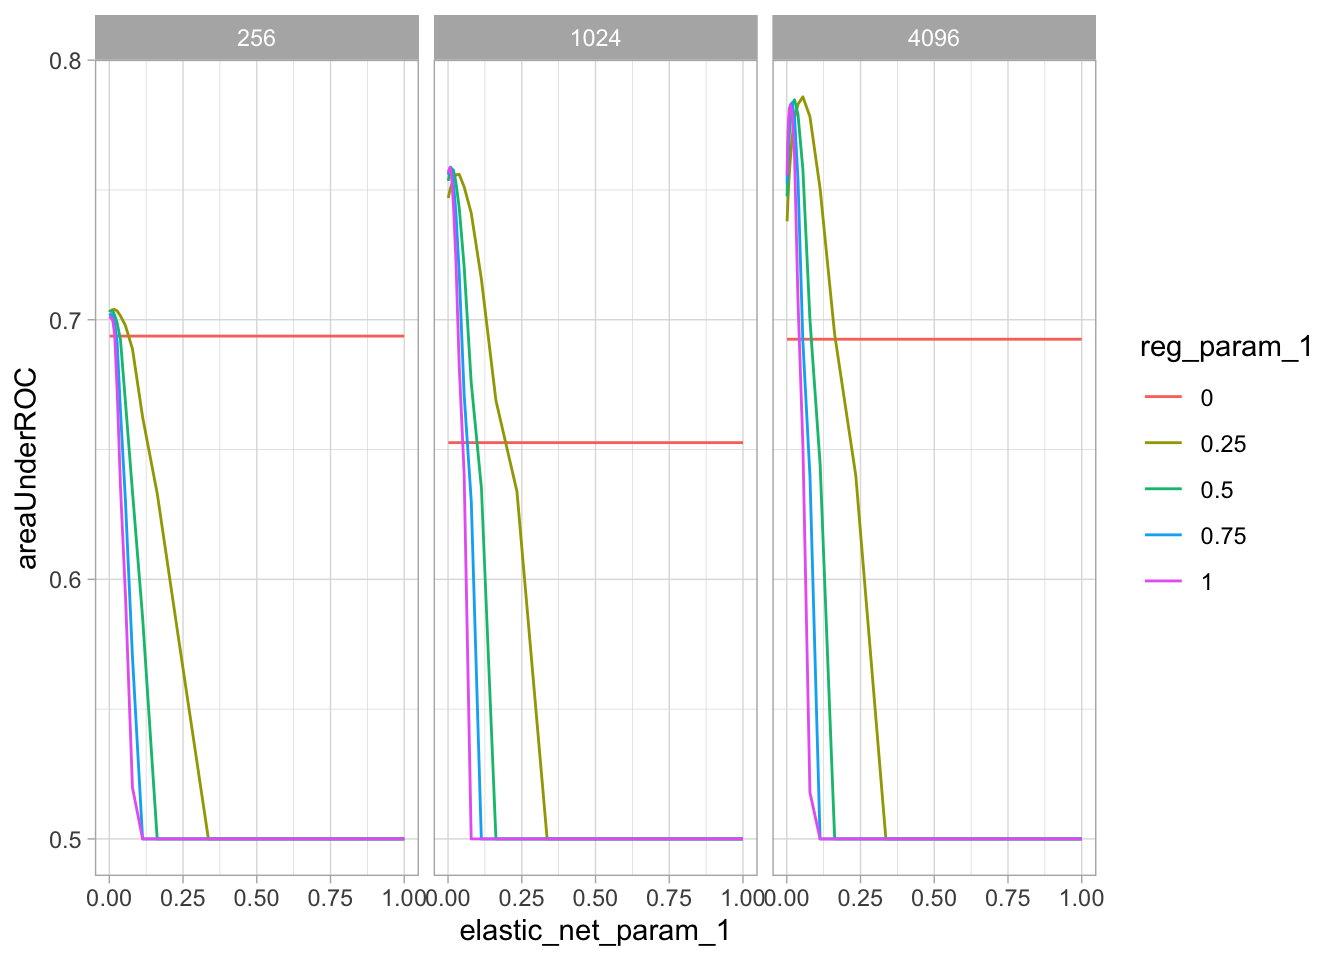
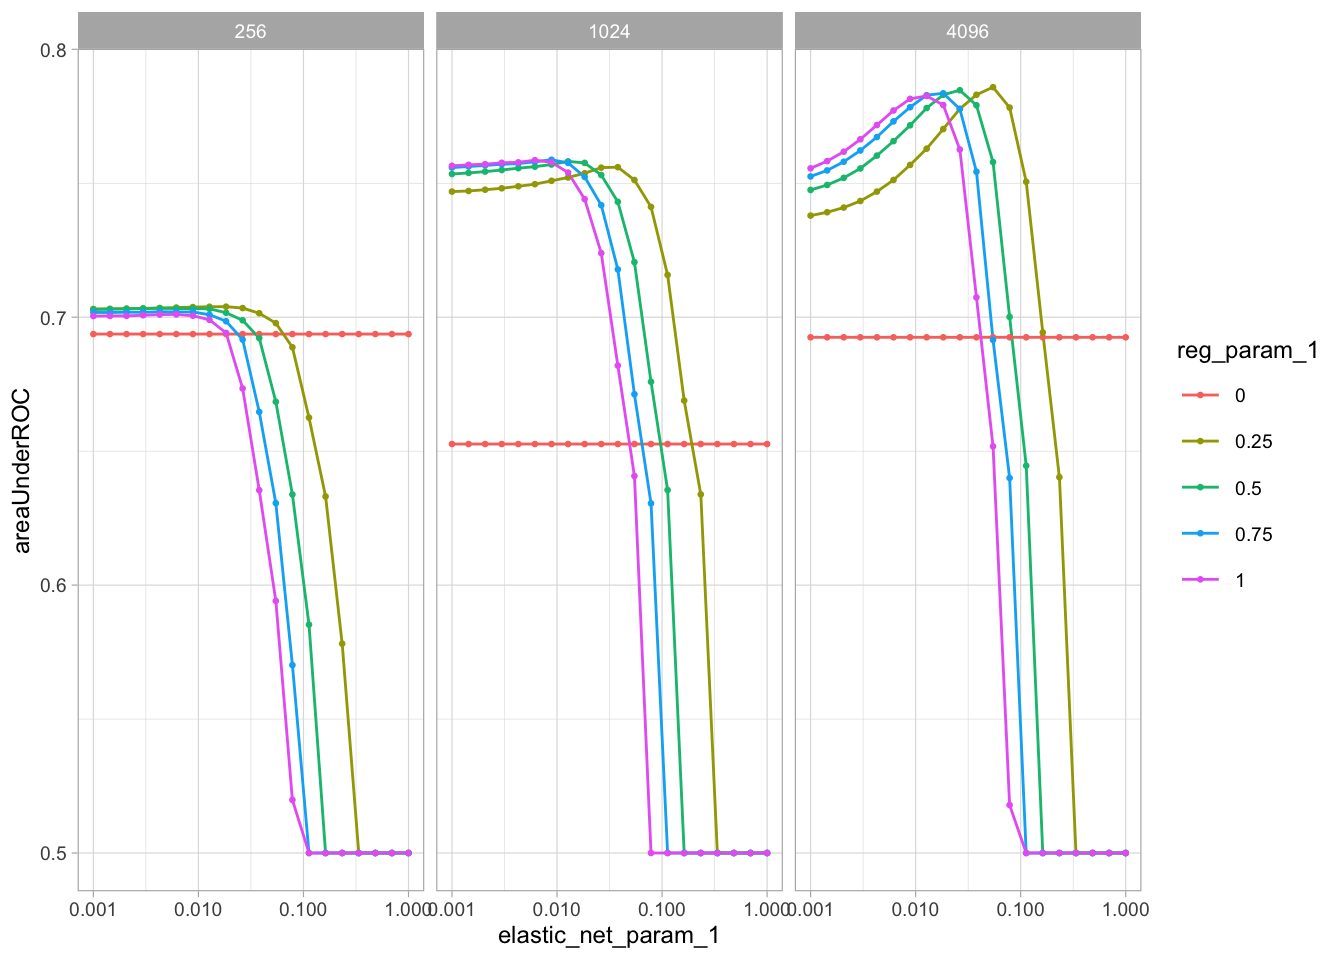
Adds model seed, and log10 to plot to match original article's plot

diff --git a/docs/guides/model_tuning_text.html b/docs/guides/model_tuning_text.html
@@ -434,30 +434,30 @@ ga('send', {
 <span id="cb2-22"><a href="#cb2-22" aria-hidden="true" tabindex="-1"></a></span>
 <span id="cb2-23"><a href="#cb2-23" aria-hidden="true" tabindex="-1"></a>sff_pipeline</span>
 <span id="cb2-24"><a href="#cb2-24" aria-hidden="true" tabindex="-1"></a><span class="co">#&gt; Pipeline (Estimator) with 6 stages</span></span>
-<span id="cb2-25"><a href="#cb2-25" aria-hidden="true" tabindex="-1"></a><span class="co">#&gt; &lt;pipeline__46386eca_53d3_4845_a539_bbf953802a16&gt; </span></span>
+<span id="cb2-25"><a href="#cb2-25" aria-hidden="true" tabindex="-1"></a><span class="co">#&gt; &lt;pipeline__4ecbedbf_4b66_4aaf_8473_71a2439c9683&gt; </span></span>
 <span id="cb2-26"><a href="#cb2-26" aria-hidden="true" tabindex="-1"></a><span class="co">#&gt;   Stages </span></span>
 <span id="cb2-27"><a href="#cb2-27" aria-hidden="true" tabindex="-1"></a><span class="co">#&gt;   |--1 Tokenizer (Transformer)</span></span>
-<span id="cb2-28"><a href="#cb2-28" aria-hidden="true" tabindex="-1"></a><span class="co">#&gt;   |    &lt;tokenizer__eb42920b_551a_43d2_a8aa_9c17f5695b45&gt; </span></span>
+<span id="cb2-28"><a href="#cb2-28" aria-hidden="true" tabindex="-1"></a><span class="co">#&gt;   |    &lt;tokenizer__44913373_2687_4fd0_a7f1_342d340255d6&gt; </span></span>
 <span id="cb2-29"><a href="#cb2-29" aria-hidden="true" tabindex="-1"></a><span class="co">#&gt;   |     (Parameters -- Column Names)</span></span>
 <span id="cb2-30"><a href="#cb2-30" aria-hidden="true" tabindex="-1"></a><span class="co">#&gt;   |      input_col: review</span></span>
 <span id="cb2-31"><a href="#cb2-31" aria-hidden="true" tabindex="-1"></a><span class="co">#&gt;   |      output_col: word_list</span></span>
 <span id="cb2-32"><a href="#cb2-32" aria-hidden="true" tabindex="-1"></a><span class="co">#&gt;   |--2 StopWordsRemover (Transformer)</span></span>
-<span id="cb2-33"><a href="#cb2-33" aria-hidden="true" tabindex="-1"></a><span class="co">#&gt;   |    &lt;stop_words_remover__d1438901_17da_48dc_8581_0153daad2228&gt; </span></span>
+<span id="cb2-33"><a href="#cb2-33" aria-hidden="true" tabindex="-1"></a><span class="co">#&gt;   |    &lt;stop_words_remover__1840232c_40f7_4822_8294_2c5f599d8046&gt; </span></span>
 <span id="cb2-34"><a href="#cb2-34" aria-hidden="true" tabindex="-1"></a><span class="co">#&gt;   |     (Parameters -- Column Names)</span></span>
 <span id="cb2-35"><a href="#cb2-35" aria-hidden="true" tabindex="-1"></a><span class="co">#&gt;   |      input_col: word_list</span></span>
 <span id="cb2-36"><a href="#cb2-36" aria-hidden="true" tabindex="-1"></a><span class="co">#&gt;   |      output_col: wo_stop_words</span></span>
 <span id="cb2-37"><a href="#cb2-37" aria-hidden="true" tabindex="-1"></a><span class="co">#&gt;   |--3 HashingTF (Transformer)</span></span>
-<span id="cb2-38"><a href="#cb2-38" aria-hidden="true" tabindex="-1"></a><span class="co">#&gt;   |    &lt;hashing_tf__9f32a222_e0f9_42bf_bfd8_dadc23dc8d62&gt; </span></span>
+<span id="cb2-38"><a href="#cb2-38" aria-hidden="true" tabindex="-1"></a><span class="co">#&gt;   |    &lt;hashing_tf__c5b0cde0_0a9a_4277_aaf6_f975419eaed5&gt; </span></span>
 <span id="cb2-39"><a href="#cb2-39" aria-hidden="true" tabindex="-1"></a><span class="co">#&gt;   |     (Parameters -- Column Names)</span></span>
 <span id="cb2-40"><a href="#cb2-40" aria-hidden="true" tabindex="-1"></a><span class="co">#&gt;   |      input_col: wo_stop_words</span></span>
 <span id="cb2-41"><a href="#cb2-41" aria-hidden="true" tabindex="-1"></a><span class="co">#&gt;   |      output_col: hashed_features</span></span>
 <span id="cb2-42"><a href="#cb2-42" aria-hidden="true" tabindex="-1"></a><span class="co">#&gt;   |--4 Normalizer (Transformer)</span></span>
-<span id="cb2-43"><a href="#cb2-43" aria-hidden="true" tabindex="-1"></a><span class="co">#&gt;   |    &lt;normalizer__7e3b28f8_248f_467d_914e_9ffd25575f2a&gt; </span></span>
+<span id="cb2-43"><a href="#cb2-43" aria-hidden="true" tabindex="-1"></a><span class="co">#&gt;   |    &lt;normalizer__546b0428_e407_4f16_8063_98f618aef38b&gt; </span></span>
 <span id="cb2-44"><a href="#cb2-44" aria-hidden="true" tabindex="-1"></a><span class="co">#&gt;   |     (Parameters -- Column Names)</span></span>
 <span id="cb2-45"><a href="#cb2-45" aria-hidden="true" tabindex="-1"></a><span class="co">#&gt;   |      input_col: hashed_features</span></span>
 <span id="cb2-46"><a href="#cb2-46" aria-hidden="true" tabindex="-1"></a><span class="co">#&gt;   |      output_col: normal_features</span></span>
 <span id="cb2-47"><a href="#cb2-47" aria-hidden="true" tabindex="-1"></a><span class="co">#&gt;   |--5 RFormula (Estimator)</span></span>
-<span id="cb2-48"><a href="#cb2-48" aria-hidden="true" tabindex="-1"></a><span class="co">#&gt;   |    &lt;r_formula__4f002d96_656b_4ee4_800d_aeb024c1f19c&gt; </span></span>
+<span id="cb2-48"><a href="#cb2-48" aria-hidden="true" tabindex="-1"></a><span class="co">#&gt;   |    &lt;r_formula__72aea28c_723f_4701_989b_8c01d45a5624&gt; </span></span>
 <span id="cb2-49"><a href="#cb2-49" aria-hidden="true" tabindex="-1"></a><span class="co">#&gt;   |     (Parameters -- Column Names)</span></span>
 <span id="cb2-50"><a href="#cb2-50" aria-hidden="true" tabindex="-1"></a><span class="co">#&gt;   |      features_col: features</span></span>
 <span id="cb2-51"><a href="#cb2-51" aria-hidden="true" tabindex="-1"></a><span class="co">#&gt;   |      label_col: label</span></span>
@@ -467,7 +467,7 @@ ga('send', {
 <span id="cb2-55"><a href="#cb2-55" aria-hidden="true" tabindex="-1"></a><span class="co">#&gt;   |      handle_invalid: error</span></span>
 <span id="cb2-56"><a href="#cb2-56" aria-hidden="true" tabindex="-1"></a><span class="co">#&gt;   |      stringIndexerOrderType: frequencyDesc</span></span>
 <span id="cb2-57"><a href="#cb2-57" aria-hidden="true" tabindex="-1"></a><span class="co">#&gt;   |--6 LogisticRegression (Estimator)</span></span>
-<span id="cb2-58"><a href="#cb2-58" aria-hidden="true" tabindex="-1"></a><span class="co">#&gt;   |    &lt;logistic_regression__9f8c27b0_cc6a_4f25_9b78_52951b372c59&gt; </span></span>
+<span id="cb2-58"><a href="#cb2-58" aria-hidden="true" tabindex="-1"></a><span class="co">#&gt;   |    &lt;logistic_regression__d055e5bc_59de_48d2_98b2_2406471fbccb&gt; </span></span>
 <span id="cb2-59"><a href="#cb2-59" aria-hidden="true" tabindex="-1"></a><span class="co">#&gt;   |     (Parameters -- Column Names)</span></span>
 <span id="cb2-60"><a href="#cb2-60" aria-hidden="true" tabindex="-1"></a><span class="co">#&gt;   |      features_col: features</span></span>
 <span id="cb2-61"><a href="#cb2-61" aria-hidden="true" tabindex="-1"></a><span class="co">#&gt;   |      label_col: label</span></span>
@@ -578,12 +578,12 @@ ga('send', {
 <span id="cb5-10"><a href="#cb5-10" aria-hidden="true" tabindex="-1"></a></span>
 <span id="cb5-11"><a href="#cb5-11" aria-hidden="true" tabindex="-1"></a>sff_cv</span>
 <span id="cb5-12"><a href="#cb5-12" aria-hidden="true" tabindex="-1"></a><span class="co">#&gt; CrossValidator (Estimator)</span></span>
-<span id="cb5-13"><a href="#cb5-13" aria-hidden="true" tabindex="-1"></a><span class="co">#&gt; &lt;cross_validator__b26c1338_898b_4ddc_af6a_bd0785a9ebd3&gt; </span></span>
+<span id="cb5-13"><a href="#cb5-13" aria-hidden="true" tabindex="-1"></a><span class="co">#&gt; &lt;cross_validator__2817b96b_cfc1_489d_b267_b12b1fc11fe5&gt; </span></span>
 <span id="cb5-14"><a href="#cb5-14" aria-hidden="true" tabindex="-1"></a><span class="co">#&gt;  (Parameters -- Tuning)</span></span>
 <span id="cb5-15"><a href="#cb5-15" aria-hidden="true" tabindex="-1"></a><span class="co">#&gt;   estimator: Pipeline</span></span>
-<span id="cb5-16"><a href="#cb5-16" aria-hidden="true" tabindex="-1"></a><span class="co">#&gt;              &lt;pipeline__46386eca_53d3_4845_a539_bbf953802a16&gt; </span></span>
+<span id="cb5-16"><a href="#cb5-16" aria-hidden="true" tabindex="-1"></a><span class="co">#&gt;              &lt;pipeline__4ecbedbf_4b66_4aaf_8473_71a2439c9683&gt; </span></span>
 <span id="cb5-17"><a href="#cb5-17" aria-hidden="true" tabindex="-1"></a><span class="co">#&gt;   evaluator: BinaryClassificationEvaluator</span></span>
-<span id="cb5-18"><a href="#cb5-18" aria-hidden="true" tabindex="-1"></a><span class="co">#&gt;              &lt;binary_classification_evaluator__1e7bba19_c923_4a27_8734_48aaca0cf3b1&gt; </span></span>
+<span id="cb5-18"><a href="#cb5-18" aria-hidden="true" tabindex="-1"></a><span class="co">#&gt;              &lt;binary_classification_evaluator__3a5c7cde_ced1_4037_bf28_4e973f158df2&gt; </span></span>
 <span id="cb5-19"><a href="#cb5-19" aria-hidden="true" tabindex="-1"></a><span class="co">#&gt;     with metric areaUnderROC </span></span>
 <span id="cb5-20"><a href="#cb5-20" aria-hidden="true" tabindex="-1"></a><span class="co">#&gt;   num_folds: 3 </span></span>
 <span id="cb5-21"><a href="#cb5-21" aria-hidden="true" tabindex="-1"></a><span class="co">#&gt;   [Tuned over 300 hyperparameter sets]</span></span></code><button title="Copy to Clipboard" class="code-copy-button"><i class="bi"></i></button></pre></div>
@@ -605,14 +605,16 @@ ga('send', {
 <span id="cb8-2"><a href="#cb8-2" aria-hidden="true" tabindex="-1"></a></span>
 <span id="cb8-3"><a href="#cb8-3" aria-hidden="true" tabindex="-1"></a>sff_metrics <span class="sc">%&gt;%</span> </span>
 <span id="cb8-4"><a href="#cb8-4" aria-hidden="true" tabindex="-1"></a>  <span class="fu">mutate</span>(<span class="at">reg_param_1 =</span> <span class="fu">as.factor</span>(reg_param_1)) <span class="sc">%&gt;%</span> </span>
-<span id="cb8-5"><a href="#cb8-5" aria-hidden="true" tabindex="-1"></a>  <span class="fu">ggplot</span>() <span class="sc">+</span></span>
-<span id="cb8-6"><a href="#cb8-6" aria-hidden="true" tabindex="-1"></a>  <span class="fu">geom_line</span>(<span class="fu">aes</span>(</span>
-<span id="cb8-7"><a href="#cb8-7" aria-hidden="true" tabindex="-1"></a>    <span class="at">x =</span> elastic_net_param_1, </span>
-<span id="cb8-8"><a href="#cb8-8" aria-hidden="true" tabindex="-1"></a>    <span class="at">y =</span> areaUnderROC, </span>
-<span id="cb8-9"><a href="#cb8-9" aria-hidden="true" tabindex="-1"></a>    <span class="at">color =</span> reg_param_1</span>
-<span id="cb8-10"><a href="#cb8-10" aria-hidden="true" tabindex="-1"></a>    )) <span class="sc">+</span></span>
-<span id="cb8-11"><a href="#cb8-11" aria-hidden="true" tabindex="-1"></a>  <span class="fu">facet_wrap</span>(<span class="sc">~</span> num_features_2) <span class="sc">+</span></span>
-<span id="cb8-12"><a href="#cb8-12" aria-hidden="true" tabindex="-1"></a>  <span class="fu">theme_light</span>()</span></code><button title="Copy to Clipboard" class="code-copy-button"><i class="bi"></i></button></pre></div>
+<span id="cb8-5"><a href="#cb8-5" aria-hidden="true" tabindex="-1"></a>  <span class="fu">ggplot</span>(<span class="fu">aes</span>(</span>
+<span id="cb8-6"><a href="#cb8-6" aria-hidden="true" tabindex="-1"></a>    <span class="at">x =</span> elastic_net_param_1, </span>
+<span id="cb8-7"><a href="#cb8-7" aria-hidden="true" tabindex="-1"></a>    <span class="at">y =</span> areaUnderROC, </span>
+<span id="cb8-8"><a href="#cb8-8" aria-hidden="true" tabindex="-1"></a>    <span class="at">color =</span> reg_param_1</span>
+<span id="cb8-9"><a href="#cb8-9" aria-hidden="true" tabindex="-1"></a>    )) <span class="sc">+</span></span>
+<span id="cb8-10"><a href="#cb8-10" aria-hidden="true" tabindex="-1"></a>  <span class="fu">geom_line</span>() <span class="sc">+</span></span>
+<span id="cb8-11"><a href="#cb8-11" aria-hidden="true" tabindex="-1"></a>  <span class="fu">geom_point</span>(<span class="at">size =</span> <span class="fl">0.5</span>) <span class="sc">+</span></span>
+<span id="cb8-12"><a href="#cb8-12" aria-hidden="true" tabindex="-1"></a>  <span class="fu">scale_x_continuous</span>(<span class="at">trans =</span> <span class="st">"log10"</span>) <span class="sc">+</span></span>
+<span id="cb8-13"><a href="#cb8-13" aria-hidden="true" tabindex="-1"></a>  <span class="fu">facet_wrap</span>(<span class="sc">~</span> num_features_2) <span class="sc">+</span></span>
+<span id="cb8-14"><a href="#cb8-14" aria-hidden="true" tabindex="-1"></a>  <span class="fu">theme_light</span>(<span class="at">base_size =</span> <span class="dv">9</span>)</span></code><button title="Copy to Clipboard" class="code-copy-button"><i class="bi"></i></button></pre></div>
 <div class="cell-output-display">
 <p><img src="model_tuning_text_files/figure-html/unnamed-chunk-8-1.png" class="img-fluid" width="672"></p>
 </div>
@@ -623,13 +625,13 @@ ga('send', {
 <span id="cb9-3"><a href="#cb9-3" aria-hidden="true" tabindex="-1"></a>sff_metrics <span class="sc">%&gt;%</span> </span>
 <span id="cb9-4"><a href="#cb9-4" aria-hidden="true" tabindex="-1"></a>  <span class="fu">arrange</span>(<span class="fu">desc</span>(areaUnderROC)) <span class="sc">%&gt;%</span> </span>
 <span id="cb9-5"><a href="#cb9-5" aria-hidden="true" tabindex="-1"></a>  <span class="fu">head</span>()</span>
-<span id="cb9-6"><a href="#cb9-6" aria-hidden="true" tabindex="-1"></a><span class="co">#&gt;   areaUnderROC elastic_net_param_1 reg_param_1 num_features_2</span></span>
-<span id="cb9-7"><a href="#cb9-7" aria-hidden="true" tabindex="-1"></a><span class="co">#&gt; 1    0.7858727          0.05455595        0.25           4096</span></span>
-<span id="cb9-8"><a href="#cb9-8" aria-hidden="true" tabindex="-1"></a><span class="co">#&gt; 2    0.7847232          0.02636651        0.50           4096</span></span>
-<span id="cb9-9"><a href="#cb9-9" aria-hidden="true" tabindex="-1"></a><span class="co">#&gt; 3    0.7835850          0.01832981        0.75           4096</span></span>
-<span id="cb9-10"><a href="#cb9-10" aria-hidden="true" tabindex="-1"></a><span class="co">#&gt; 4    0.7830411          0.01832981        0.50           4096</span></span>
-<span id="cb9-11"><a href="#cb9-11" aria-hidden="true" tabindex="-1"></a><span class="co">#&gt; 5    0.7830230          0.03792690        0.25           4096</span></span>
-<span id="cb9-12"><a href="#cb9-12" aria-hidden="true" tabindex="-1"></a><span class="co">#&gt; 6    0.7828651          0.01274275        0.75           4096</span></span></code><button title="Copy to Clipboard" class="code-copy-button"><i class="bi"></i></button></pre></div>
+<span id="cb9-6"><a href="#cb9-6" aria-hidden="true" tabindex="-1"></a><span class="co">#&gt;   areaUnderROC reg_param_1 elastic_net_param_1 num_features_2</span></span>
+<span id="cb9-7"><a href="#cb9-7" aria-hidden="true" tabindex="-1"></a><span class="co">#&gt; 1    0.7858727        0.25          0.05455595           4096</span></span>
+<span id="cb9-8"><a href="#cb9-8" aria-hidden="true" tabindex="-1"></a><span class="co">#&gt; 2    0.7847232        0.50          0.02636651           4096</span></span>
+<span id="cb9-9"><a href="#cb9-9" aria-hidden="true" tabindex="-1"></a><span class="co">#&gt; 3    0.7835850        0.75          0.01832981           4096</span></span>
+<span id="cb9-10"><a href="#cb9-10" aria-hidden="true" tabindex="-1"></a><span class="co">#&gt; 4    0.7830411        0.50          0.01832981           4096</span></span>
+<span id="cb9-11"><a href="#cb9-11" aria-hidden="true" tabindex="-1"></a><span class="co">#&gt; 5    0.7830230        0.25          0.03792690           4096</span></span>
+<span id="cb9-12"><a href="#cb9-12" aria-hidden="true" tabindex="-1"></a><span class="co">#&gt; 6    0.7828651        0.75          0.01274275           4096</span></span></code><button title="Copy to Clipboard" class="code-copy-button"><i class="bi"></i></button></pre></div>
 </div>
 </section>
 <section id="model-selection" class="level2">
@@ -655,7 +657,7 @@ ga('send', {
 <span id="cb10-18"><a href="#cb10-18" aria-hidden="true" tabindex="-1"></a>    <span class="at">output_col =</span> <span class="st">"normal_features"</span></span>
 <span id="cb10-19"><a href="#cb10-19" aria-hidden="true" tabindex="-1"></a>    ) <span class="sc">%&gt;%</span> </span>
 <span id="cb10-20"><a href="#cb10-20" aria-hidden="true" tabindex="-1"></a>  <span class="fu">ft_r_formula</span>(score <span class="sc">~</span> normal_features) <span class="sc">%&gt;%</span> </span>
-<span id="cb10-21"><a href="#cb10-21" aria-hidden="true" tabindex="-1"></a>  <span class="fu">ml_logistic_regression</span>(<span class="at">elastic_net_param =</span> <span class="fl">0.018</span>, <span class="at">reg_param =</span> <span class="fl">0.5</span>)</span></code><button title="Copy to Clipboard" class="code-copy-button"><i class="bi"></i></button></pre></div>
+<span id="cb10-21"><a href="#cb10-21" aria-hidden="true" tabindex="-1"></a>  <span class="fu">ml_logistic_regression</span>(<span class="at">elastic_net_param =</span> <span class="fl">0.05</span>, <span class="at">reg_param =</span> <span class="fl">0.25</span>)</span></code><button title="Copy to Clipboard" class="code-copy-button"><i class="bi"></i></button></pre></div>
 </div>
 <div class="cell">
 <div class="sourceCode cell-code" id="cb11"><pre class="sourceCode r code-with-copy"><code class="sourceCode r"><span id="cb11-1"><a href="#cb11-1" aria-hidden="true" tabindex="-1"></a>new_sff_fitted <span class="ot">&lt;-</span> new_sff_pipeline <span class="sc">%&gt;%</span> </span>
@@ -671,8 +673,8 @@ ga('send', {
 <span id="cb12-4"><a href="#cb12-4" aria-hidden="true" tabindex="-1"></a><span class="co">#&gt; # A tibble: 2 × 3</span></span>
 <span id="cb12-5"><a href="#cb12-5" aria-hidden="true" tabindex="-1"></a><span class="co">#&gt;   .metric .estimator .estimate</span></span>
 <span id="cb12-6"><a href="#cb12-6" aria-hidden="true" tabindex="-1"></a><span class="co">#&gt;   &lt;chr&gt;   &lt;chr&gt;          &lt;dbl&gt;</span></span>
-<span id="cb12-7"><a href="#cb12-7" aria-hidden="true" tabindex="-1"></a><span class="co">#&gt; 1 roc_auc binary         0.789</span></span>
-<span id="cb12-8"><a href="#cb12-8" aria-hidden="true" tabindex="-1"></a><span class="co">#&gt; 2 pr_auc  binary         0.662</span></span></code><button title="Copy to Clipboard" class="code-copy-button"><i class="bi"></i></button></pre></div>
+<span id="cb12-7"><a href="#cb12-7" aria-hidden="true" tabindex="-1"></a><span class="co">#&gt; 1 roc_auc binary         0.783</span></span>
+<span id="cb12-8"><a href="#cb12-8" aria-hidden="true" tabindex="-1"></a><span class="co">#&gt; 2 pr_auc  binary         0.653</span></span></code><button title="Copy to Clipboard" class="code-copy-button"><i class="bi"></i></button></pre></div>
 </div>
 
 
